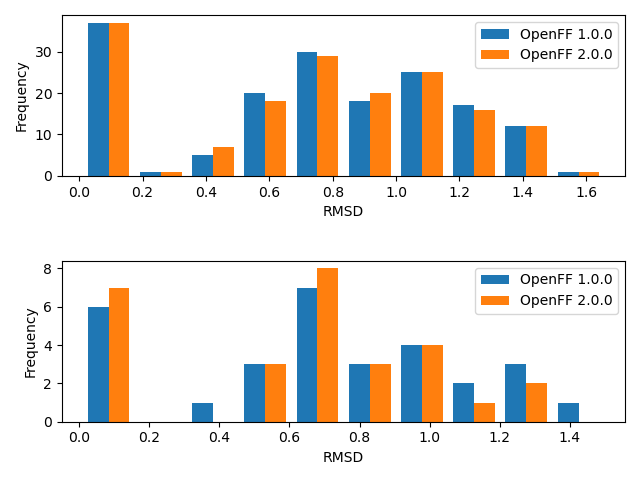
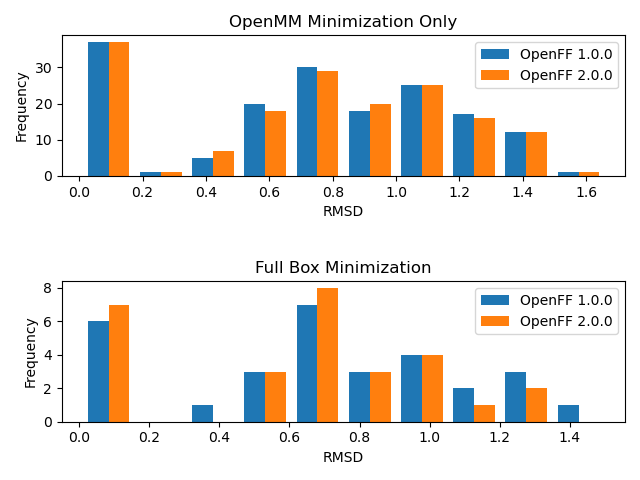
Added titles to plot

diff --git a/collected_results/plot_generation.py b/collected_results/plot_generation.py
@@ -21,13 +21,19 @@ axs[0].hist((off1_rmsd,off2_rmsd))
 axs[0].set_xlabel('RMSD')
 axs[0].set_ylabel('Frequency')
 axs[0].legend(['OpenFF 1.0.0', 'OpenFF 2.0.0'])
+axs[0].set_title('OpenMM Minimization Only')
 axs[1].hist((off1_box_rmsd, off2_box_rmsd))
 axs[1].set_xlabel('RMSD')
 axs[1].set_ylabel('Frequency')
 axs[1].legend(['OpenFF 1.0.0', 'OpenFF 2.0.0'])
+axs[1].set_title('Full Box Minimization')
 
 fig.tight_layout(h_pad=3)
 plt.savefig('RMSD_comparison.png')
 
+print('RMSD OFF 1.0 Mean: %s nm' % np.mean(off1_rmsd))
+print('RMSD OFF 2.0 Mean: %s nm' % np.mean(off2_rmsd))
+print('RMSD (box min) OFF 1.0 Mean: %s nm' % np.mean(off1_box_rmsd))
+print('RMSD (box min) OFF 2.0 Mean: %s nm' % np.mean(off2_box_rmsd))
 
 plt.show()
